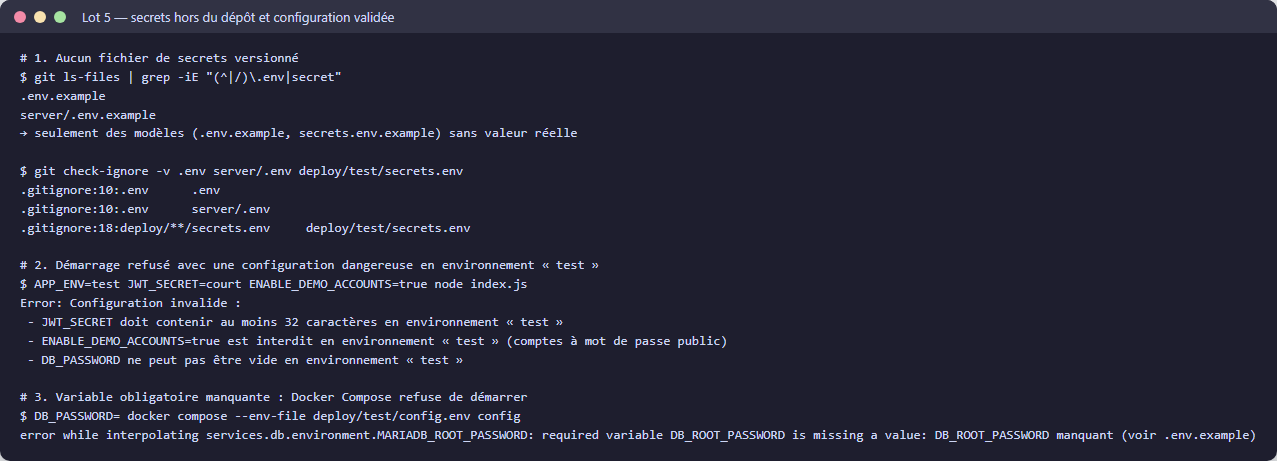
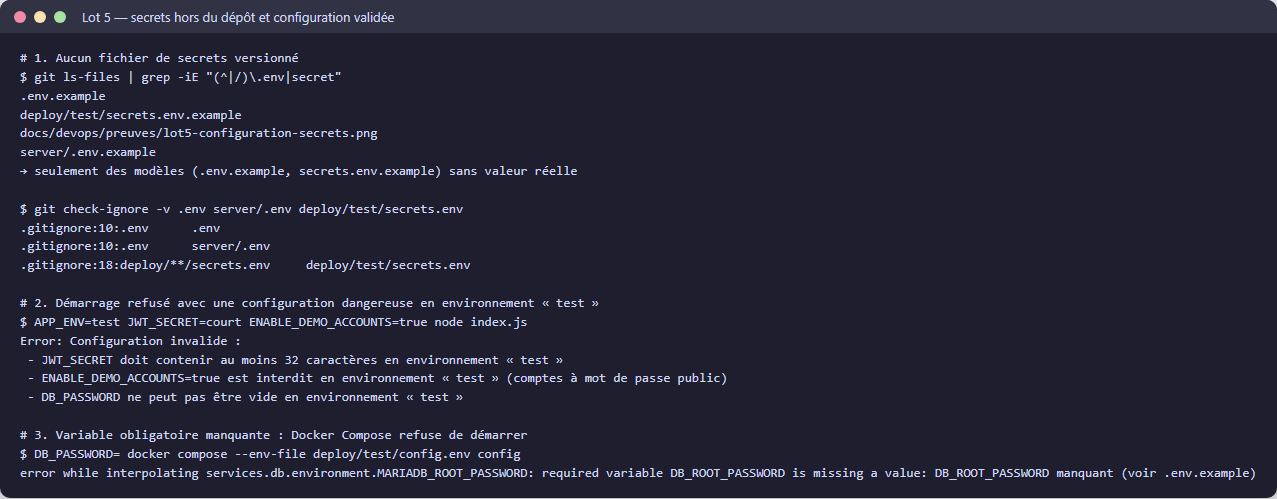
docs(devops): lot 5 - rapport de sécurité et actions correctives

Changed region(s): [[0.0, 0.0911, 0.5803, 0.82], [0.0, 0.8503, 0.9773, 0.9718], [0.0305, 0.0304, 0.3054, 0.0607]]

diff --git a/docs/devops/06-securite.md b/docs/devops/06-securite.md
@@ -1,0 +1,101 @@
+# 6. Contrôles de sécurité DevSecOps (lot 5, partie 2)
+
+## 6.1 Contrôles intégrés à la chaîne
+
+| Contrôle | Outil (version figée) | Où | Ce qui est analysé | Gate (bloquant) |
+|---|---|---|---|---|
+| Détection de secrets | Gitleaks v8.30.1 (image officielle) | job **security** | **Tout l'historique Git** (`fetch-depth: 0`) | Toute nouvelle fuite |
+| Analyse des dépendances | `npm audit` | job **security** | `server/` et `client/` (lockfiles) | Vulnérabilité ≥ *high* dans une dépendance de **production** |
+| Scan de l'image | Trivy 0.76.2 (image officielle) | job **docker**, avant publication | Paquets Alpine + paquets npm embarqués | Vulnérabilité *critical* avec correctif disponible |
+| Analyse statique de sécurité (SAST) | CodeQL `security-and-quality` | workflow `codeql.yml` | Code JavaScript (injections, XSS…) | Alertes dans *Security → Code scanning* |
+| Règles de sécurité du code | ESLint (`no-eval`, `no-new-func`, `react/no-danger`…) | job **quality** | Code serveur et client | Toute erreur |
+| Veille des dépendances | Dependabot | `.github/dependabot.yml` | npm, GitHub Actions, image de base Docker | PR hebdomadaires vers `develop` |
+
+**Ordre** : la publication dans ghcr.io (`docker`) dépend de `security` ; une image n'est publiée que si les secrets,
+les dépendances **et** l'image elle-même ont passé leurs contrôles. Les rapports bruts sont archivés
+(artefacts `rapports-securite` et `rapport-trivy`).
+
+**Choix d'exécution** : Gitleaks et Trivy tournent depuis leurs **images officielles à version figée**, et non par des
+actions tierces référencées par un tag mobile. Un tag d'action peut être déplacé vers du code malveillant
+(attaque de la chaîne d'approvisionnement, comme l'incident `tj-actions/changed-files` de mars 2025) ; une version
+d'image figée et un jeton du pipeline en lecture seule (`permissions: contents: read`) limitent ce risque.
+
+## 6.2 Analyse des dépendances (npm audit) : résultats et corrections
+
+![npm audit avant / après](preuves/lot5-npm-audit-avant-apres.png)
+
+| Périmètre | Avant | Après `npm audit fix` | Action |
+|---|---|---|---|
+| Serveur, **production** | 1 critique (`proxy-addr`), 2 hautes (`body-parser`, `mysql2`), 1 modérée | **0** | ✅ Corrigé (versions compatibles, sans `--force`) |
+| Client, **production** | 3 hautes (`axios`, `follow-redirects`, `form-data`), 3 modérées | **0 haute**, 2 modérées | ✅ Corrigé ; modérées sous le seuil, suivies par Dependabot |
+| Serveur, développement | 1 critique + 12 hautes, toutes via `newman` | inchangé | ⚠ **Accepté, justifié** (ci-dessous) |
+| Client, développement | `vite` ≤ 6.4.3 (haute) | inchangé | ⚠ **Accepté, justifié** (ci-dessous) |
+
+**Justification des alertes non corrigées :**
+
+- **`newman` (outil de tests API)** — la seule « correction » proposée par npm est une rétrogradation vers
+  `newman@4.6.1` (version de 2019), plus ancienne que la version actuelle : ce n'est pas un correctif. Newman
+  n'est **jamais embarqué** dans l'image (`npm ci --omit=dev`, vérifié par Trivy) et n'exécute que notre propre
+  collection, contre une base de test locale. Risque résiduel faible ; à revoir dès qu'une version corrigée paraît
+  (Dependabot ouvrira la PR).
+- **`vite` (outil de build)** — la vulnérabilité concerne le **serveur de développement** de Vite, qui n'est pas
+  utilisé en production : l'image ne contient que les fichiers statiques construits. Le correctif demande une
+  migration majeure (Vite 8), planifiée hors du périmètre de ce projet.
+
+**Régression détectée pendant la correction (ANO-20, critique)** : la mise à jour de `mysql2` (3.20 → 3.24) a
+changé le format de la colonne JSON `user.roles` ; les administrateurs perdaient leurs droits (403). La suite de
+régression l'a détecté **avant le commit** ; `getClientRole` a été corrigé et 7 tests ajoutés. Enseignement : une
+mise à jour de sécurité suit le même chemin que tout changement (branche, tests, pipeline, revue).
+
+## 6.3 Détection de secrets (Gitleaks) : 113 alertes analysées
+
+![Gitleaks avant / après](preuves/lot5-gitleaks-avant-apres.png)
+
+| Constat | Détail |
+|---|---|
+| Alertes | **113**, toutes de type `jwt`, toutes dans le commit initial `2168b58` |
+| Fichiers | Les 6 rapports JSON Newman de `server/tests/api/reports/` |
+| Cause | Le rapporteur JSON de Newman enregistre les requêtes et réponses complètes, donc les jetons de connexion (`Authorization: Bearer …`, réponses de `/auth/login`) |
+| Gravité réelle | Faible : comptes **fictifs** de la base de test, jetons **expirés** (validité 1 jour, émis le 2026-11-19), signés avec le secret JWT **local** du poste de développement |
+
+Actions :
+
+1. **Cause corrigée** : `server/tests/api/redact.js` masque tout JWT des rapports dès leur production
+   (appelé par `runApiTests.js`, 4 tests unitaires).
+2. **Fichiers actuels assainis** : 113 jetons remplacés par `[JWT-MASQUÉ]`.
+3. **Historique non réécrit**, décision justifiée : réécrire l'historique de branches protégées (force push) casserait
+   les clones et les PR existantes, pour des jetons déjà expirés. Les 113 alertes historiques sont listées par
+   **empreinte exacte** (commit:fichier:règle:ligne) dans `.gitleaksignore` : toute **nouvelle** fuite reste bloquante.
+4. **Rotation recommandée** du `JWT_SECRET` local du poste de développement (`server/.env`), qui a signé ces jetons.
+5. **Le contrôle a fonctionné une seconde fois** : pendant la correction, Gitleaks a signalé le jeton factice écrit
+   en dur dans le nouveau test unitaire ; le test construit désormais ce jeton à l'exécution. Aucune exception
+   n'a été ajoutée pour les fichiers de test (elle pourrait masquer une vraie fuite).
+
+Résultat : `gitleaks git` sur les 25 commits → **no leaks found**, code de sortie 0.
+
+Exceptions de configuration (`.gitleaks.toml`) : modèles `.env.example` / `secrets.env.example` (valeurs vides ou
+« changer-moi ») et captures d'écran PNG.
+
+## 6.4 Scan de l'image (Trivy)
+
+Le scan s'exécute sur l'image construite, **avant** sa publication. Rapport JSON complet et tableau HIGH/CRITICAL
+archivés dans l'artefact `rapport-trivy` de chaque pipeline. Résultat sur l'image de la branche `feature/securite` :
+gate passée (aucune vulnérabilité critique corrigeable), image publiée — voir la capture du pipeline :
+
+![Pipeline avec contrôles de sécurité](preuves/lot5-pipeline-securite.png)
+
+Mesures qui réduisent la surface d'attaque de l'image (lot 4) : base `node:22-alpine` minimale, dépendances de
+production uniquement, utilisateur non root, aucun secret dans l'image (`.dockerignore`).
+
+## 6.5 Synthèse : alertes traitées
+
+| # | Alerte | Source | Décision |
+|---|---|---|---|
+| 1 | `proxy-addr` critique, `body-parser`, `mysql2` hautes (production serveur) | npm audit | ✅ Corrigées |
+| 2 | `axios`, `follow-redirects`, `form-data` hautes (production client) | npm audit | ✅ Corrigées |
+| 3 | 113 JWT dans les rapports de tests | Gitleaks | ✅ Cause corrigée, fichiers assainis, historique documenté |
+| 4 | JWT factice en dur dans un test | Gitleaks | ✅ Corrigé avant publication |
+| 5 | `JWT_SECRET` en clair dans `ci.yml` | revue (lot 5) | ✅ Secret éphémère généré à chaque exécution |
+| 6 | Chaîne `newman` (dev) | npm audit | ⚠ Acceptée, justifiée § 6.2 |
+| 7 | `vite` serveur de dev | npm audit | ⚠ Acceptée, justifiée § 6.2 |
+| 8 | Régression ANO-20 introduite par la correction n° 1 | tests de régression | ✅ Corrigée |
